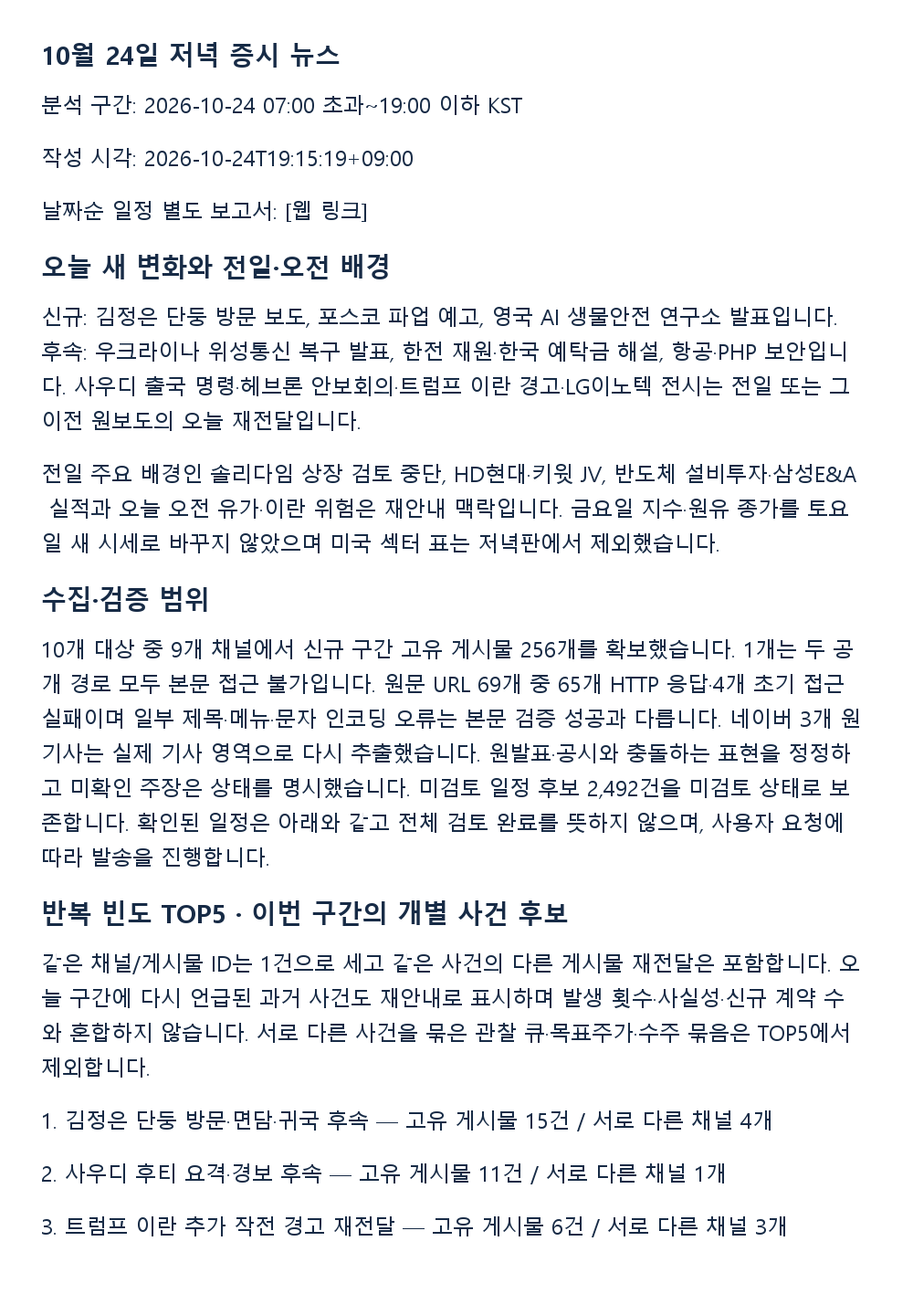
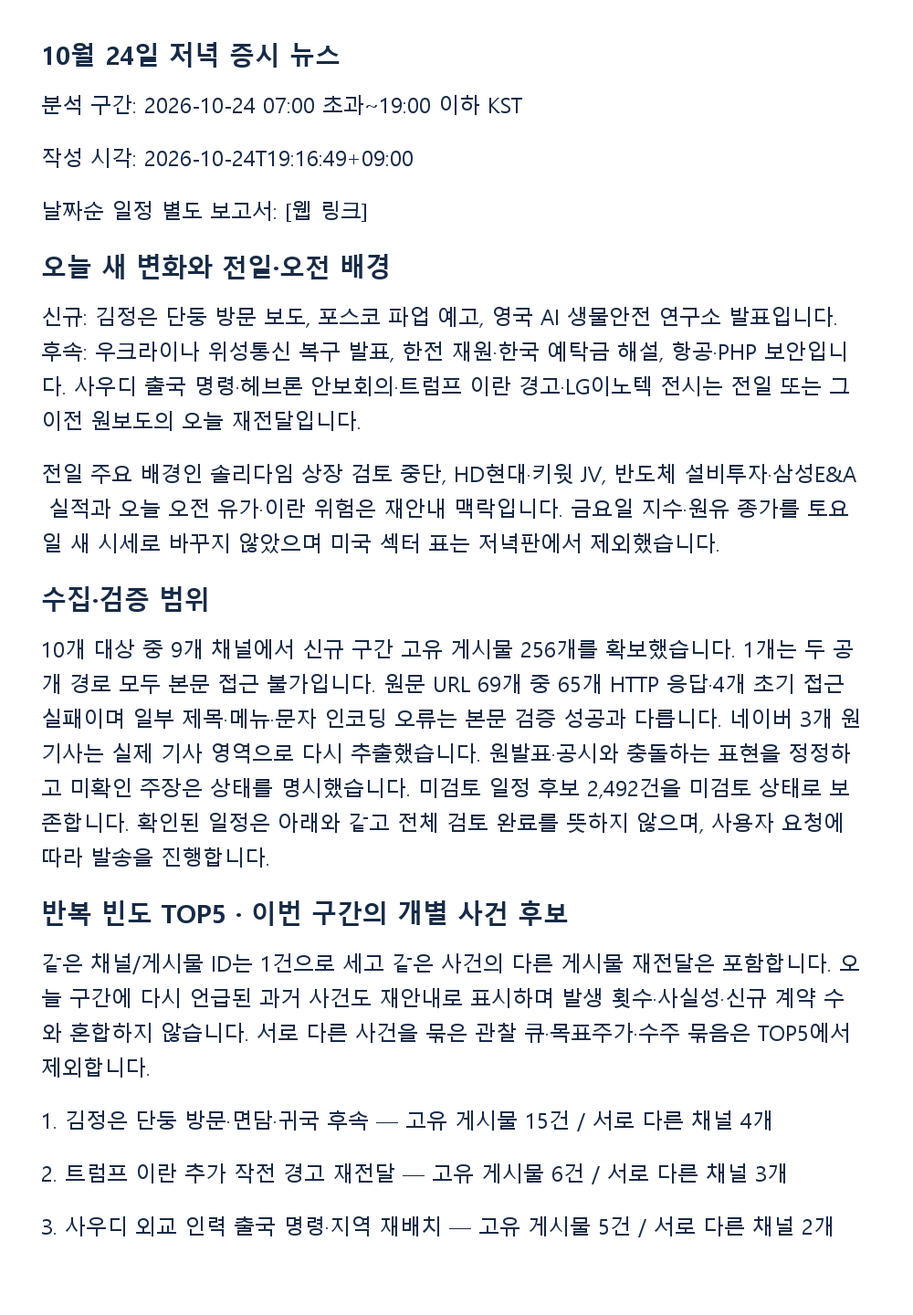
Finalize evening event frequencies and actual publication timestamp

Changed region(s): [[0.062, 0.875, 0.868, 0.9375], [0.341, 0.0938, 0.372, 0.125]]

diff --git a/news/2026-10-24-1900/index.html b/news/2026-10-24-1900/index.html
@@ -1,1 +1,1 @@
-<!doctype html><html lang="ko"><meta charset="utf-8"><meta name="viewport" content="width=device-width,initial-scale=1"><title>10월 24일 저녁 증시 뉴스</title><style>body{font:17px/1.8 sans-serif;background:#f2f5f9;color:#172b46;margin:0}main{max-width:920px;margin:auto;padding:24px;background:white}p,a,h1,h2,h3{overflow-wrap:anywhere}h1,h2,h3{line-height:1.4}h2{border-top:2px solid #ced9e7;padding-top:25px;margin-top:36px}a{color:#145ca5}img{max-width:100%;height:auto}nav{padding:18px;background:#eaf1fb}small{color:#61718a}</style><main><nav><a href="schedule.html">날짜순 일정</a> · <a href="../../#news">당일 체크 · 당일 뉴스</a></nav><article id="report"><h1>10월 24일 저녁 증시 뉴스</h1><p>분석 구간: 2026-10-24 07:00 초과~19:00 이하 KST</p><p>작성 시각: 2026-10-24T19:15:19+09:00</p><p>날짜순 일정 별도 보고서: <a href="https://jsinvest.github.io/dashboard/news/2026-10-24-1900/schedule.html">원문 열기</a></p><h2>오늘 새 변화와 전일·오전 배경</h2><p>신규: 김정은 단둥 방문 보도, 포스코 파업 예고, 영국 AI 생물안전 연구소 발표입니다. 후속: 우크라이나 위성통신 복구 발표, 한전 재원·한국 예탁금 해설, 항공·PHP 보안입니다. 사우디 출국 명령·헤브론 안보회의·트럼프 이란 경고·LG이노텍 전시는 전일 또는 그 이전 원보도의 오늘 재전달입니다.</p><p>전일 주요 배경인 솔리다임 상장 검토 중단, HD현대·키윗 JV, 반도체 설비투자·삼성E&amp;A 실적과 오늘 오전 유가·이란 위험은 재안내 맥락입니다. 금요일 지수·원유 종가를 토요일 새 시세로 바꾸지 않았으며 미국 섹터 표는 저녁판에서 제외했습니다.</p><h2>수집·검증 범위</h2><p>10개 대상 중 9개 채널에서 신규 구간 고유 게시물 256개를 확보했습니다. 1개는 두 공개 경로 모두 본문 접근 불가입니다. 원문 URL 69개 중 65개 HTTP 응답·4개 초기 접근 실패이며 일부 제목·메뉴·문자 인코딩 오류는 본문 검증 성공과 다릅니다. 네이버 3개 원기사는 실제 기사 영역으로 다시 추출했습니다. 원발표·공시와 충돌하는 표현을 정정하고 미확인 주장은 상태를 명시했습니다. 미검토 일정 후보 2,492건을 미검토 상태로 보존합니다. 확인된 일정은 아래와 같고 전체 검토 완료를 뜻하지 않으며, 사용자 요청에 따라 발송을 진행합니다.</p><h2>반복 빈도 TOP5 · 이번 구간의 개별 사건 후보</h2><p>같은 채널/게시물 ID는 1건으로 세고 같은 사건의 다른 게시물 재전달은 포함합니다. 오늘 구간에 다시 언급된 과거 사건도 재안내로 표시하며 발생 횟수·사실성·신규 계약 수와 혼합하지 않습니다. 서로 다른 사건을 묶은 관찰 큐·목표주가·수주 묶음은 TOP5에서 제외합니다.</p><p>1. 김정은 단둥 방문·면담·귀국 후속 — 고유 게시물 15건 / 서로 다른 채널 4개</p><p>2. 사우디 후티 요격·경보 후속 — 고유 게시물 11건 / 서로 다른 채널 1개</p><p>3. 트럼프 이란 추가 작전 경고 재전달 — 고유 게시물 6건 / 서로 다른 채널 3개</p><p>4. 사우디 외교 인력 출국 명령·지역 재배치 — 고유 게시물 5건 / 서로 다른 채널 2개</p><p>5. 우크라이나 스타링크 제한 해제 후속 — 고유 게시물 4건 / 서로 다른 채널 2개</p><h2>외교·지정학</h2><h3>김정은, 신압록강대교 거쳐 중국 단둥 도착…통일부 확인 인용 보도</h3><p>상태: 원기사 보도 확인 / 원기관 독립 대조 미완료</p><p>판정: 정부 확인을 인용한 원기사 보도. 24일 단둥 방문은 구간 내 새 변화입니다. 리창 면담 확인은 여당 정보위 간사 발언을 인용한 별도 속보이고, 당일 귀국은 전망 단계여서 귀국 완료로 쓰지 않았습니다. 건강이상·사망설을 사실로 채택하지 않습니다. 미국 증시 연결: 북중 외교 변화가 추가 제재·군사 행동으로 이어질 때 위험회피 경로가 생길 수 있지만 단순 방문만으로 확전·제재 해제를 단정할 수 없습니다. 공식 면담 의제·체류 일정·귀환 확인이 다음 조건입니다.</p><p>원문: <a href="https://n.news.naver.com/mnews/article/015/0005346071?sid=001">원문 열기</a> | <a href="https://n.news.naver.com/mnews/article/449/0000365139?rc=N&amp;ntype=RANKING&amp;sid=100">원문 열기</a> | <a href="https://www.yna.co.kr/view/AKR20261024045700001?input=1195m">원문 열기</a> | <a href="https://www.yna.co.kr/view/AKR20261024046000001?input=1195m">원문 열기</a></p><p>이번 구간 후보 언급 15건 / 서로 다른 채널 4개. 최초·최종 게시 관측(UTC): 2026-10-24T05:27:16+00:00 / 2026-10-24T09:05:04+00:00. 기사 최초·수정·사건 시각은 별개입니다.</p><h2>이란·전쟁 별도 점검</h2><h3>미국, 사우디 비필수 외교 인력·가족 출국 명령…다른 국가와 범위 구분</h3><p>상태: AP 보도 확인 / 공식 상세 본문 접근 실패</p><p>판정: 출국 명령 보도 확인 / 지역 확대 범위 미확인. AP의 21일 보도는 사우디에 대한 비필수 인력·가족 출국 명령과 다른 걸프 공관의 일시적 인력 변화를 구분합니다. 오늘 재전달을 오늘 새 전면 철수 명령으로 바꾸지 않습니다. CNN 인용 요약의 7개국 철수·23일 추가 명령은 각각 원문·국무부 확인이 남았습니다. 미국 증시 연결: 공관 축소와 실제 공격·항로 통제가 겹치면 원유·운임→물가·금리 기대→항공·성장주 부담 경로가 가능합니다. 협상 진전과 운항 정상화는 반대 조건이며 실제 시장 반응은 별도 미확인입니다.</p><p>원문: <a href="https://apnews.com/article/fa9a4806bff404a23a16a8c209afbd2b">원문 열기</a> | <a href="https://travel.state.gov/en/international-travel/travel-advisories/saudi-arabia.html">원문 열기</a></p><p>이번 구간 후보 언급 5건 / 서로 다른 채널 2개. 최초·최종 게시 관측(UTC): 2026-10-23T23:05:14+00:00 / 2026-10-24T05:58:19+00:00. 기사 최초·수정·사건 시각은 별개입니다.</p><h3>네타냐후, 헤브론 공격 뒤 안보평가 회의·현장 방문…전일 사건 재전달</h3><p>상태: 통신사 원보도 확인 / 정부 발표 직접 대조 미완료</p><p>판정: 안보회의 개최를 인용한 원보도 확인. 23일 회의 뒤 헤브론 봉쇄와 서안 전역 봉쇄 준비를 지시했다는 보도입니다. 오늘 새 이란 공격 결정이나 해외 순방 긴급 귀국으로 확대하지 않습니다. 변경 전→후: 해외 방문 축소 사례가 아니라 공격 뒤 국내 현장 방문·안보 대응입니다. 회의 소집과 공격 계획 추정은 별개이며 가자·서안 조치가 중동 전역 확전으로 이어지는지 추가 확인이 필요합니다. 미국 증시 연결은 확전→공급 차질→유가·위험프리미엄의 조건부 경로이며 방산 관심과 실제 발주는 다릅니다.</p><p>원문: <a href="https://www.aa.com.tr/en/middle-east/israeli-premier-orders-closure-of-hebron-full-lockdown-of-occupied-west-bank/4098296">원문 열기</a></p><p>이번 구간 후보 언급 2건 / 서로 다른 채널 1개. 최초·최종 게시 관측(UTC): 2026-10-23T22:57:41+00:00 / 2026-10-23T22:58:54+00:00. 기사 최초·수정·사건 시각은 별개입니다.</p><h3>트럼프 추가 이란 작전 경고·배럭 주튀르키예 대사 주말 공격 가능성 발언 후보</h3><p>상태: 보도·당사자 주장과 미확인 계획 구분</p><p>판정: 트럼프 경고 원보도 / 대사 발언 원문 미확인. 트럼프의 23일 유세 발언은 오전판 후속 재전달입니다. 쿠바 군함 파견 시사와 이란 실제 공격 개시는 다릅니다. 배럭 인터뷰가 주말 가능성을 말했다는 요약은 공격 시각·승인 확정 근거가 아닙니다. 외교관 표적 공격 정보 메모는 매체·정보당국 평가 후보로 실제 테러 발생과 구분합니다. 지도자 방문 축소·회담 취소·긴급 귀국도 별도 검색했으며 과거 9월 뉴욕 일정 축소를 이번 새 사건으로 재사용하지 않았습니다. 유가 상승과 안전자산 수요는 금리에 반대로 작용할 수 있어 일방 상승을 가정하지 않습니다.</p><p>원문: <a href="https://www.segye.com/newsView/20261024502698?OutUrl=naver">원문 열기</a></p><p>이번 구간 후보 언급 16건 / 서로 다른 채널 3개. 최초·최종 게시 관측(UTC): 2026-10-23T22:29:58+00:00 / 2026-10-24T07:10:36+00:00. 기사 최초·수정·사건 시각은 별개입니다.</p><h3>우크라이나, 스타링크·스타실드 속도 제한 해제 발표 보도…오전판 이후 후속</h3><p>상태: 당국 인용 보도 확인 / 독립 통신 실측 없음</p><p>판정: 우크라이나 당국 발표를 인용한 원기사 확인. 24일 보도는 제한 해제와 고속 이동 중 연결 회복을 전합니다. 23일 제한 지속 발언과 날짜가 다른 후속이며 앞선 혼선이 처음부터 없었던 것으로 소급하지 않습니다. 기술 실측·전선 전 구간의 안정성을 직접 검증하지 못했습니다. 군용 스타실드와 민간 스타링크 용어를 구분하고 위성통신 수요가 국내 관련주 매출로 연결되는지는 별도 계약 확인이 필요합니다.</p><p>원문: <a href="https://www.irishtimes.com/world/europe/2026/10/24/ukraine-says-restrictions-on-starlink-speed-now-lifted/">원문 열기</a></p><p>이번 구간 후보 언급 4건 / 서로 다른 채널 2개. 최초·최종 게시 관측(UTC): 2026-10-24T07:49:23+00:00 / 2026-10-24T08:20:17+00:00. 기사 최초·수정·사건 시각은 별개입니다.</p><h3>호르무즈 유조선 피격·사우디 미사일 요격·러시아 에너지시설 공격 주장</h3><p>상태: 당사자·속보 주장 미검증</p><p>판정: 미확인 또는 당사자 주장. UKMTO 인용 요약은 22일 17:15 UTC 오만 리마 북동쪽 7해리 유조선 1척 사건인 반면, 이란 측 유조선 2척 기뢰 충돌·대피 주장은 별개이며 같은 사건으로 합치지 않았습니다. 사우디 요격·경보 해제와 우크라이나 톨리아티·오룔 시설 타격도 원발표 확인이 남았습니다. 공격 수·피해 시설·생산 중단량을 임의로 확정하지 않습니다. 미국 증시 연결: 실제 운송·에너지 차질 확인 시 정유·에너지와 항공·화학의 비용 경로가 갈리고 우려 완화 시 반전될 수 있습니다.</p><p>이번 구간 후보 언급 20건 / 서로 다른 채널 2개. 최초·최종 게시 관측(UTC): 2026-10-23T22:29:58+00:00 / 2026-10-24T08:57:05+00:00. 기사 최초·수정·사건 시각은 별개입니다.</p><h2>기업·산업</h2><h3>포스코 노조, 11월 2일 19시 무기한·단계적 파업 예고 보도</h3><p>상태: 원기사 보도 확인 / 원기관 독립 대조 미완료</p><p>신규 보도는 23일 포항 막판 교섭 결렬 뒤 11월 2일 오후 7시 파업 예정이라는 내용입니다. 노조·회사 공식 발표를 직접 확보하지 못했으므로 파업 개시나 제철소 전체 가동 중단이 이미 발생했다고 쓰지 않습니다. 실제 참여 범위·안전 유지 인력·재교섭 결과가 철강 공급과 실적 영향의 확인 조건입니다. 공급 차질과 수요 위축이 상충할 수 있어 철강 가격 상승을 단정하지 않습니다.</p><p>원문: <a href="https://economist.co.kr/article/view/ecn202610240009">원문 열기</a></p><p>이번 구간 후보 언급 1건 / 서로 다른 채널 1개. 최초·최종 게시 관측(UTC): 2026-10-24T03:07:55+00:00 / 2026-10-24T03:07:55+00:00. 기사 최초·수정·사건 시각은 별개입니다.</p><h3>한국전력 사채 한도 초과 우려 19.2조원·전기료 25조원 선납 거절 보도</h3><p>상태: 원기사 보도 확인 / 원기관 독립 대조 미완료</p><p>국회예산정책처 분석을 인용한 기사는 2027년 말 특례 종료 뒤 2028년 발행 한도가 자본금·적립금의 2배로 돌아가며 전망 잔액과 약 19.2조원 차이가 날 수 있다고 설명합니다. 당장 오늘 19조원 채무불이행이 발생했다는 뜻이 아닙니다. 반도체 기업의 향후 5년 요금 선납 요청 거절 보도와 요금 인상 논의도 확정 인상 고시와 다릅니다. 전력망 투자 재원·연료비·법 개정 여부가 확인 조건이며 전력기기 수요 기대와 발주 지연 위험을 함께 봅니다.</p><p>원문: <a href="https://www.kyeonggi.com/article/20261024580051">원문 열기</a> | <a href="https://www.imaeil.com/page/view/2026102409413885877">원문 열기</a></p><p>이번 구간 후보 언급 4건 / 서로 다른 채널 1개. 최초·최종 게시 관측(UTC): 2026-10-24T00:59:29+00:00 / 2026-10-24T04:50:21+00:00. 기사 최초·수정·사건 시각은 별개입니다.</p><h2>국내 수급·정책</h2><h3>투자자예탁금 약 4개월간 51조원 감소 보도…총액을 순유출로 해석하지 않음</h3><p>상태: 원기사 보도 확인 / 원기관 독립 대조 미완료</p><p>신규 시장 수급 해설입니다. 예탁금은 주식 매수 결제·출금·신규 입금 등으로 바뀌므로 감소액 전체를 증시 밖 자금 이탈로 환산하지 않았습니다. 신용융자와 반대매매 부담 기사도 기준일·분모가 달라 하나의 수치로 합치지 않습니다. 금융투자협회 원시계열을 이번에 재조회하지 않아 누적 방향과 정확한 유출 경로는 기사 인용 범위입니다. 주말 보도이며 토요일 정규장 가격 반응을 만들지 않습니다.</p><p>원문: <a href="https://n.news.naver.com/article/011/0004674693">원문 열기</a> | <a href="https://n.news.naver.com/article/008/0005431014">원문 열기</a></p><p>이번 구간 후보 언급 2건 / 서로 다른 채널 1개. 최초·최종 게시 관측(UTC): 2026-10-23T22:55:40+00:00 / 2026-10-24T00:30:13+00:00. 기사 최초·수정·사건 시각은 별개입니다.</p><h3>금감원 해외주식 현금성 마케팅 금지 개선안, 의견 수렴 단계 보도</h3><p>상태: 원기사 보도 확인 / 원기관 독립 대조 미완료</p><p>23일 원기사의 오늘 재전달입니다. 규정 개정안 준비·업계 의견 수렴과 이미 시행된 법적 전면 금지를 구분했습니다. 자체 수수료·이자 감면 등은 기사에서 별도 취급합니다. 증권사 거래 유도 비용과 고객 유입에 영향을 줄 수 있으나 개정 문구·시행일 확정 전 실적 감소를 수치로 계산하지 않습니다.</p><p>원문: <a href="https://news.einfomax.co.kr/news/articleView.html?idxno=4440870">원문 열기</a></p><p>이번 구간 후보 언급 1건 / 서로 다른 채널 1개. 최초·최종 게시 관측(UTC): 2026-10-24T02:45:40+00:00 / 2026-10-24T02:45:40+00:00. 기사 최초·수정·사건 시각은 별개입니다.</p><h2>정책·AI</h2><h3>영국 AI 생물안전 연구소, 정부 1억파운드·기업 최대 2억파운드 지원</h3><p>상태: 영국 정부 공식 원문 확인</p><p>영국 정부 24일 발표를 확인했습니다. 정부 예산과 OpenAI·Anthropic의 최대 모델 크레디트 약속은 현금 집행액 하나로 더하지 않습니다. 더 넓은 정부 AI·안보 패키지와 연구소 예산도 중복 합산하지 않습니다. AI 위험 탐지·백신/대응 연구 기반의 계획으로 국내 바이오·보안 기업의 수주가 아닙니다. 실제 조달·프로젝트 참여·집행 일정이 영향 확인 조건입니다.</p><p>원문: <a href="https://www.gov.uk/government/news/introducing-the-ai-biosecurity-lab">원문 열기</a> | <a href="https://www.gov.uk/government/news/chancellor-unveils-britains-ambitious-plan-for-ai">원문 열기</a></p><p>이번 구간 후보 언급 2건 / 서로 다른 채널 2개. 최초·최종 게시 관측(UTC): 2026-10-24T02:04:37+00:00 / 2026-10-24T05:38:17+00:00. 기사 최초·수정·사건 시각은 별개입니다.</p><h3>중국 AI 고용 지침, 실업 완충기간은 장려 표현…일률 강제와 구분</h3><p>상태: 중국 정부·부처 원문 확인</p><p>국무원 원문은 노동집약 업종의 도입 범위·강도·속도를 신중히 조절하고 기업의 실업 완충기간 탐색을 장려한다고 명시합니다. 국내 기사 중 일률적 강제·의무화로 확대된 표현은 원문과 달라 채택하지 않았습니다. 성문일 10월 16일, 정부 영문 소개 23일, 부처 재게시 24일을 구분했습니다. AI 도입 전면 중단이 아니라 고용 보호·재교육 조정이며 실제 기업별 비용과 생산성 영향은 후속 시행을 봐야 합니다.</p><p>원문: <a href="https://www.dt.co.kr/article/12090947?ref=naver">원문 열기</a> | <a href="https://english.www.gov.cn/policies/latestreleases/202610/23/content_WS6adb4e53c6d00ca5f9a0deb7.html">원문 열기</a> | <a href="https://www.mee.gov.cn/zcwj/gwywj/202610/t20261024_1184583.shtml">원문 열기</a></p><p>이번 구간 후보 언급 1건 / 서로 다른 채널 1개. 최초·최종 게시 관측(UTC): 2026-10-24T05:03:50+00:00 / 2026-10-24T05:03:50+00:00. 기사 최초·수정·사건 시각은 별개입니다.</p><h2>기업·산업</h2><h3>LG이노텍, 베를린서 엔비디아 HSB 센싱 공개…22일 발표 재안내</h3><p>상태: LG이노텍 공식 발표와 원기사 확인</p><p>회사 발표는 20일 GTC 베를린에서 300만화소 카메라 모듈·MVS 등 센싱 솔루션 공개를 설명합니다. 오늘 기사에 재전달된 기술 협력으로 신규 수주 금액은 아닙니다. CPU를 거치지 않는 GPU 센서 연결 등 기술 설명과 대량 양산 매출은 구분합니다. 2027년 CES·GTC 전시는 계획 범위이며 정확한 기업 발표 시각은 아직 별도 확인 사항입니다. 고객 채택·실제 공급 계약과 경쟁 제품이 수익 영향의 조건입니다.</p><p>원문: <a href="https://n.news.naver.com/mnews/article/648/0000051904?rc=N&amp;ntype=RANKING&amp;sid=101">원문 열기</a> | <a href="https://www.lginnotek.com/news/pressView.do?idx=6605&amp;locale=en&amp;rowSize=15">원문 열기</a></p><p>이번 구간 후보 언급 1건 / 서로 다른 채널 1개. 최초·최종 게시 관측(UTC): 2026-10-24T06:14:34+00:00 / 2026-10-24T06:14:34+00:00. 기사 최초·수정·사건 시각은 별개입니다.</p><h2>AI·데이터센터</h2><h3>TikTok 미국 법인, 2030년대 초 4GW 컴퓨팅 확보 추진 보도 후속</h3><p>상태: 원기사 보도 확인 / 원기관 독립 대조 미완료</p><p>CNBC 원문은 익명 소식통의 4GW 목표와 회사의 Oracle이 주된 클라우드 제공자라는 설명을 구분합니다. 다년간의 탐색·협의이며 확정 임대·구매 계약이나 오늘 추가 지출액이 아닙니다. BofA 2028년 2.1조달러 데이터센터 지출 전망·연료전지 수요 기사는 원문 접근 실패로 추정 후보에 남겼습니다. 전력망·냉각·연료전지 기회는 계약·가동·자금조달 확인이 필요하며 대규모 투자 회수 부담도 반대 경로입니다.</p><p>원문: <a href="https://www.cnbc.com/2026/10/23/tiktok-us-compute-capacity.html?utm_source=chatgpt.com">원문 열기</a></p><p>이번 구간 후보 언급 2건 / 서로 다른 채널 1개. 최초·최종 게시 관측(UTC): 2026-10-23T23:49:30+00:00 / 2026-10-23T23:58:35+00:00. 기사 최초·수정·사건 시각은 별개입니다.</p><h3>중국 AI 연산 2027년 약 두 배 전망, 미국 설계·해외 클라우드 의존 가설</h3><p>상태: 원기사 보도 확인 / 원기관 독립 대조 미완료</p><p>대만 원기사는 IFP 보고서의 H100 환산 460만→880만 추정을 인용했습니다. 실제 GPU 출하 확정량·중국 국산칩만의 성과가 아닙니다. 출처 모델에 합법 수입·비공식 조달·해외 클라우드가 함께 포함돼 가정 변화에 민감합니다. 원 IFP 보고서 직접 대조가 남아 전망으로만 표시합니다. GPU 임대료 지수 이미지·AI CDS 최고치 요약도 원계열 미확보라 수치를 확정하지 않습니다.</p><p>원문: <a href="https://www.ctee.com.tw/news/20261024700325-430804">원문 열기</a></p><p>이번 구간 후보 언급 2건 / 서로 다른 채널 2개. 최초·최종 게시 관측(UTC): 2026-10-24T05:15:50+00:00 / 2026-10-24T05:37:26+00:00. 기사 최초·수정·사건 시각은 별개입니다.</p><h2>보안·위험</h2><h3>PHP 취약점 악용 준비 정황·Brotli RCE 보고 후보, 실제 침해와 구분</h3><p>상태: 원기사 보도 확인 / 원기관 독립 대조 미완료</p><p>문화일보는 싱가포르 보안기업의 라자루스 준비 정황 주장을 전했습니다. 악성 공격 준비·취약점·이미 발생한 침해는 단계가 다릅니다. PHP 원 보안 공지와 OpenAI의 Brotli 취약점 원발표 전체를 이번에 대조하지 못해 CVE·피해 수를 임의로 만들지 않았습니다. 항공 IT업체 유출 후속도 노출 항목·고객 규모 확인이 남았습니다. 패치·침입 탐지·규제 대응 수요가 보안 업체 매출로 이어지는지는 실제 계약 확인이 필요합니다.</p><p>원문: <a href="https://www.munhwa.com/article/11625906?ref=naver">원문 열기</a> | <a href="https://www.ngonews.kr/news/articleView.html?idxno=241351">원문 열기</a></p><p>이번 구간 후보 언급 6건 / 서로 다른 채널 3개. 최초·최종 게시 관측(UTC): 2026-10-23T22:37:28+00:00 / 2026-10-24T09:45:53+00:00. 기사 최초·수정·사건 시각은 별개입니다.</p><h2>기업·산업</h2><h3>밀양 4개 기업 1,385억원 투자협약·중앙일보 인수 우협 후속</h3><p>상태: 원기사 보도 확인 / 원기관 독립 대조 미완료</p><p>밀양 기사상 투자협약 합계는 600+650+100+35억원이며 확정 납품 수주가 아닙니다. 허가·투자 집행·고용 달성을 별도 확인해야 합니다. 중앙일보 매각은 다우키움·CJ 컨소시엄과 신세계 참여 보도로, 약 5,000억원 거론액은 확정 인수가가 아닙니다. 감자·유증 구조, 주총·사채권자 동의 등 조건이 남습니다. 상장 관련사의 출자 규모·연결 효과가 확인되기 전 실적에 임의 반영하지 않습니다.</p><p>원문: <a href="https://www.pointe.co.kr/news/articleView.html?idxno=86563">원문 열기</a> | <a href="https://n.news.naver.com/article/018/0006395202">원문 열기</a></p><p>이번 구간 후보 언급 2건 / 서로 다른 채널 1개. 최초·최종 게시 관측(UTC): 2026-10-24T00:40:44+00:00 / 2026-10-24T01:33:02+00:00. 기사 최초·수정·사건 시각은 별개입니다.</p><h2>공시·기업 행동</h2><h3>한솔아이원스 유증에 한솔테크닉스 참여·엘앤씨바이오 26일 권리락</h3><p>상태: DART 본문 확인</p><p>23일 DART 원공시는 한솔테크닉스의 예정 출자금 242.73억원·유증 전체 600억원·주당 예정가 9,120원을 기재하며 배정·확정가에 따라 바뀔 수 있습니다. 2027년 1월 29일 납입은 계획일로 완료가 아닙니다. 엘앤씨바이오 무상증자 권리락은 10월 26일, 기준가 30,150원으로 원문 확인했습니다. 권리락 기준가격과 현재 시장가격을 혼합하지 않고 자본조달·희석·수급 효과를 구분합니다.</p><p>원문: <a href="https://dart.fss.or.kr/dsaf001/main.do?rcpNo=20261023000176">원문 열기</a> | <a href="https://dart.fss.or.kr/dsaf001/main.do?rcpNo=20261023900853">원문 열기</a></p><p>이번 구간 후보 언급 1건 / 서로 다른 채널 1개. 최초·최종 게시 관측(UTC): 2026-10-24T02:40:34+00:00 / 2026-10-24T02:40:34+00:00. 기사 최초·수정·사건 시각은 별개입니다.</p><h2>바이오·임상</h2><h3>GSK Mo-Rez 난소암 1b상 PFS 11.1개월·ORR 62% 발표</h3><p>상태: 회사 공식 원문 확인</p><p>회사 원문은 BEHOLD-1 초기 임상에서 확인 ORR 62%, 반응 지속기간 12.2개월, PFS 11.1개월을 제시합니다. 3상 확증이나 신약 허가가 아닙니다. 지표별 기간과 환자군이 달라 다른 ADC 임상과 단순 우열 비교하지 않습니다. 국내 바이오 기업 노출·권리 관계는 별도 확인되지 않았습니다. 추가 확증·안전성·허가와 판권을 확인해야 합니다.</p><p>원문: <a href="https://www.gsk.com/en-gb/media/press-releases/gsk-presents-positive-data-for-mo-rez-in-platinum-resistant-ovarian-cancer/">원문 열기</a></p><p>이번 구간 후보 언급 2건 / 서로 다른 채널 1개. 최초·최종 게시 관측(UTC): 2026-10-24T00:25:36+00:00 / 2026-10-24T00:25:45+00:00. 기사 최초·수정·사건 시각은 별개입니다.</p><h2>목표주가 변경</h2><h3>목표주가 변경 한 묶음: ASTS 의견 상향 후보·국내 실적 전망 구분</h3><p>상태: 원보고서 미검증 후보와 기사 전망 구분</p><p>AST스페이스모바일은 스코샤뱅크 Sector Perform→Sector Outperform, 목표 55.70달러라는 요약 후보입니다. 브로커 원보고서·이전 목표가를 확보하지 못해 상향액이나 확정 변경으로 계산하지 않았습니다. 씨에스윈드 하나증권·파라다이스 실적 전망 기사에는 확정 발표와 추정의 구분을 유지하며 확인 없는 새 목표주가를 만들지 않습니다. 오전의 삼성E&amp;A 목표가 변경은 이미 전달한 배경입니다. 개별 종목 카톡 대신 이 섹션에 묶습니다.</p><p>원문: <a href="https://www.pinpointnews.co.kr/news/articleView.html?idxno=498114">원문 열기</a> | <a href="https://www.pinpointnews.co.kr/news/articleView.html?idxno=498133">원문 열기</a></p><p>이번 구간 후보 언급 3건 / 서로 다른 채널 2개. 최초·최종 게시 관측(UTC): 2026-10-23T22:38:13+00:00 / 2026-10-24T07:27:52+00:00. 기사 최초·수정·사건 시각은 별개입니다.</p><h2>수주공시·계약 검토</h2><h3>수주공시 재안내·언론 인용 계약: 삼성전기 3,605억원·LS일렉 1,689억원</h3><p>상태: 원기사 확인 / 원공시 추가 대조 필요</p><p>오늘 기사에 포함된 19일 계약 보도입니다. 삼성전기 패키지기판 3,605억원은 2027년 납품, LS일렉 1,689억원은 2027년 확정 물량이고 2028년은 추가 협의라고 기사에 적혔습니다. 계약 원공시·매출 대비 비중·정확한 공시 시각을 이번에 대조하지 못해 확인된 새 수주공시로 승격하지 않습니다. 23일 기가비스·코오롱글로벌 공급계약 목록은 이전판에 실린 계약과 중복 가능해 신규 합산하지 않고 원공시 감사 큐를 유지합니다. 주가 반영 여부는 판단 불가입니다.</p><p>원문: <a href="https://n.news.naver.com/mnews/article/648/0000051904?rc=N&amp;ntype=RANKING&amp;sid=101">원문 열기</a></p><p>이번 구간 후보 언급 1건 / 서로 다른 채널 1개. 최초·최종 게시 관측(UTC): 2026-10-24T02:40:34+00:00 / 2026-10-24T02:40:34+00:00. 기사 최초·수정·사건 시각은 별개입니다.</p><h2>미확인·추가 검토</h2><h3>추가 기업·정책 확인 큐: 원전 장기 전망·미국 기업 계약과 임상</h3><p>상태: 계획·언론 인용·후보를 보존 / 확정 효과로 사용 금지</p><p>IAEA 원전 수요 전망은 확정 발주가 아닙니다. 템퍼스·BMS 2031년 데이터 라이선스, IREN·엔비디아 플랫폼, 메타 Sundial 인수, SpaceX 기지국 8만개 협의·Instacart 매각 검토는 원계약 대조가 남았습니다. AbbVie 승인, IONS·로슈·젠맙 임상, 리콜 및 AXP·BAH 콜 요약도 각 원발표를 추가 확인해야 합니다. 요르단 공격·에볼라·태풍·허리케인은 피해·공식 경보 원천을 우선하며 속보끼리 피해 수를 합치지 않았습니다. 현대차 한정판 200대·새만금 지원 논의, 이마트 유통 확대·에코프로 전략은 기업 전체 확정 실적과 다릅니다.</p><p>원문: <a href="https://n.news.naver.com/article/215/0001270315">원문 열기</a> | <a href="https://magazine.hankyung.com/business/article/202610242420b">원문 열기</a> | <a href="https://www.theguru.co.kr/news/article.html?no=108736">원문 열기</a> | http://www.domin.co.kr/news/articleView.html?idxno=1572959 | <a href="https://www.meconomynews.com/news/articleView.html?idxno=202883">원문 열기</a> | http://www.breaknews.com/1245435 | <a href="https://www.yonhapnewstv.co.kr:443/news/MYH20261024162114ruc">원문 열기</a> | <a href="https://www.ytn.co.kr/_ln/0108_202610241622098228">원문 열기</a></p><p>이번 구간 후보 언급 26건 / 서로 다른 채널 3개. 최초·최종 게시 관측(UTC): 2026-10-23T22:37:28+00:00 / 2026-10-24T08:45:58+00:00. 기사 최초·수정·사건 시각은 별개입니다.</p><h2>일정 정정과 다음 확인</h2><p>다음 주 일정에서 CPI/PCE와 영란은행 날짜를 바로잡았습니다. 날짜순 일정은 별도 링크로 제공하며 IR·재공시는 거시 일정과 분리했습니다. 뉴스 빈도가 낮아도 파업·권리락·주금 납입·정책 발효는 별도 일정에 기록했습니다.</p><h2>검증 한계</h2><p>발행·수정·사건·게시·수집 시각은 원자료에 보존하고 시간대 미확인을 임의 환산하지 않았습니다. 원기사를 읽었다는 사실과 그 주장 전체의 독립 검증은 다릅니다. 직접 접근 실패·빈 본문·상반된 주장·미검토 후보는 장부에 남깁니다. 금융 영향은 조건부 경로이며 매매 신호나 확정 예측이 아닙니다. 기존 미발송 11개 판은 별도 미해결이고 분석 완료 cutoff를 임의로 올리지 않습니다.</p></article><h2>전체 본문 PNG</h2><img src="news_01.png" alt="뉴스 본문 1" loading="lazy"><img src="news_02.png" alt="뉴스 본문 2" loading="lazy"><img src="news_03.png" alt="뉴스 본문 3" loading="lazy"><img src="news_04.png" alt="뉴스 본문 4" loading="lazy"><img src="news_05.png" alt="뉴스 본문 5" loading="lazy"><img src="news_06.png" alt="뉴스 본문 6" loading="lazy"><img src="news_07.png" alt="뉴스 본문 7" loading="lazy"><img src="news_08.png" alt="뉴스 본문 8" loading="lazy"><img src="news_09.png" alt="뉴스 본문 9" loading="lazy"><img src="news_10.png" alt="뉴스 본문 10" loading="lazy"><img src="news_11.png" alt="뉴스 본문 11" loading="lazy"></main></html>
+<!doctype html><html lang="ko"><meta charset="utf-8"><meta name="viewport" content="width=device-width,initial-scale=1"><title>10월 24일 저녁 증시 뉴스</title><style>body{font:17px/1.8 sans-serif;background:#f2f5f9;color:#172b46;margin:0}main{max-width:920px;margin:auto;padding:24px;background:white}p,a,h1,h2,h3{overflow-wrap:anywhere}h1,h2,h3{line-height:1.4}h2{border-top:2px solid #ced9e7;padding-top:25px;margin-top:36px}a{color:#145ca5}img{max-width:100%;height:auto}nav{padding:18px;background:#eaf1fb}small{color:#61718a}</style><main><nav><a href="schedule.html">날짜순 일정</a> · <a href="../../#news">당일 체크 · 당일 뉴스</a></nav><article id="report"><h1>10월 24일 저녁 증시 뉴스</h1><p>분석 구간: 2026-10-24 07:00 초과~19:00 이하 KST</p><p>작성 시각: 2026-10-24T19:16:49+09:00</p><p>날짜순 일정 별도 보고서: <a href="https://jsinvest.github.io/dashboard/news/2026-10-24-1900/schedule.html">원문 열기</a></p><h2>오늘 새 변화와 전일·오전 배경</h2><p>신규: 김정은 단둥 방문 보도, 포스코 파업 예고, 영국 AI 생물안전 연구소 발표입니다. 후속: 우크라이나 위성통신 복구 발표, 한전 재원·한국 예탁금 해설, 항공·PHP 보안입니다. 사우디 출국 명령·헤브론 안보회의·트럼프 이란 경고·LG이노텍 전시는 전일 또는 그 이전 원보도의 오늘 재전달입니다.</p><p>전일 주요 배경인 솔리다임 상장 검토 중단, HD현대·키윗 JV, 반도체 설비투자·삼성E&amp;A 실적과 오늘 오전 유가·이란 위험은 재안내 맥락입니다. 금요일 지수·원유 종가를 토요일 새 시세로 바꾸지 않았으며 미국 섹터 표는 저녁판에서 제외했습니다.</p><h2>수집·검증 범위</h2><p>10개 대상 중 9개 채널에서 신규 구간 고유 게시물 256개를 확보했습니다. 1개는 두 공개 경로 모두 본문 접근 불가입니다. 원문 URL 69개 중 65개 HTTP 응답·4개 초기 접근 실패이며 일부 제목·메뉴·문자 인코딩 오류는 본문 검증 성공과 다릅니다. 네이버 3개 원기사는 실제 기사 영역으로 다시 추출했습니다. 원발표·공시와 충돌하는 표현을 정정하고 미확인 주장은 상태를 명시했습니다. 미검토 일정 후보 2,492건을 미검토 상태로 보존합니다. 확인된 일정은 아래와 같고 전체 검토 완료를 뜻하지 않으며, 사용자 요청에 따라 발송을 진행합니다.</p><h2>반복 빈도 TOP5 · 이번 구간의 개별 사건 후보</h2><p>같은 채널/게시물 ID는 1건으로 세고 같은 사건의 다른 게시물 재전달은 포함합니다. 오늘 구간에 다시 언급된 과거 사건도 재안내로 표시하며 발생 횟수·사실성·신규 계약 수와 혼합하지 않습니다. 서로 다른 사건을 묶은 관찰 큐·목표주가·수주 묶음은 TOP5에서 제외합니다.</p><p>1. 김정은 단둥 방문·면담·귀국 후속 — 고유 게시물 15건 / 서로 다른 채널 4개</p><p>2. 트럼프 이란 추가 작전 경고 재전달 — 고유 게시물 6건 / 서로 다른 채널 3개</p><p>3. 사우디 외교 인력 출국 명령·지역 재배치 — 고유 게시물 5건 / 서로 다른 채널 2개</p><p>4. 사우디 리야드 경보·해제 후속 — 고유 게시물 5건 / 서로 다른 채널 1개</p><p>5. 우크라이나 스타링크 제한 해제 후속 — 고유 게시물 4건 / 서로 다른 채널 2개</p><h2>외교·지정학</h2><h3>김정은, 신압록강대교 거쳐 중국 단둥 도착…통일부 확인 인용 보도</h3><p>상태: 원기사 보도 확인 / 원기관 독립 대조 미완료</p><p>판정: 정부 확인을 인용한 원기사 보도. 24일 단둥 방문은 구간 내 새 변화입니다. 리창 면담 확인은 여당 정보위 간사 발언을 인용한 별도 속보이고, 당일 귀국은 전망 단계여서 귀국 완료로 쓰지 않았습니다. 건강이상·사망설을 사실로 채택하지 않습니다. 미국 증시 연결: 북중 외교 변화가 추가 제재·군사 행동으로 이어질 때 위험회피 경로가 생길 수 있지만 단순 방문만으로 확전·제재 해제를 단정할 수 없습니다. 공식 면담 의제·체류 일정·귀환 확인이 다음 조건입니다.</p><p>원문: <a href="https://n.news.naver.com/mnews/article/015/0005346071?sid=001">원문 열기</a> | <a href="https://n.news.naver.com/mnews/article/449/0000365139?rc=N&amp;ntype=RANKING&amp;sid=100">원문 열기</a> | <a href="https://www.yna.co.kr/view/AKR20261024045700001?input=1195m">원문 열기</a> | <a href="https://www.yna.co.kr/view/AKR20261024046000001?input=1195m">원문 열기</a></p><p>이번 구간 후보 언급 15건 / 서로 다른 채널 4개. 최초·최종 게시 관측(UTC): 2026-10-24T05:27:16+00:00 / 2026-10-24T09:05:04+00:00. 기사 최초·수정·사건 시각은 별개입니다.</p><h2>이란·전쟁 별도 점검</h2><h3>미국, 사우디 비필수 외교 인력·가족 출국 명령…다른 국가와 범위 구분</h3><p>상태: AP 보도 확인 / 공식 상세 본문 접근 실패</p><p>판정: 출국 명령 보도 확인 / 지역 확대 범위 미확인. AP의 21일 보도는 사우디에 대한 비필수 인력·가족 출국 명령과 다른 걸프 공관의 일시적 인력 변화를 구분합니다. 오늘 재전달을 오늘 새 전면 철수 명령으로 바꾸지 않습니다. CNN 인용 요약의 7개국 철수·23일 추가 명령은 각각 원문·국무부 확인이 남았습니다. 미국 증시 연결: 공관 축소와 실제 공격·항로 통제가 겹치면 원유·운임→물가·금리 기대→항공·성장주 부담 경로가 가능합니다. 협상 진전과 운항 정상화는 반대 조건이며 실제 시장 반응은 별도 미확인입니다.</p><p>원문: <a href="https://apnews.com/article/fa9a4806bff404a23a16a8c209afbd2b">원문 열기</a> | <a href="https://travel.state.gov/en/international-travel/travel-advisories/saudi-arabia.html">원문 열기</a></p><p>이번 구간 후보 언급 5건 / 서로 다른 채널 2개. 최초·최종 게시 관측(UTC): 2026-10-23T23:05:14+00:00 / 2026-10-24T05:58:19+00:00. 기사 최초·수정·사건 시각은 별개입니다.</p><h3>네타냐후, 헤브론 공격 뒤 안보평가 회의·현장 방문…전일 사건 재전달</h3><p>상태: 통신사 원보도 확인 / 정부 발표 직접 대조 미완료</p><p>판정: 안보회의 개최를 인용한 원보도 확인. 23일 회의 뒤 헤브론 봉쇄와 서안 전역 봉쇄 준비를 지시했다는 보도입니다. 오늘 새 이란 공격 결정이나 해외 순방 긴급 귀국으로 확대하지 않습니다. 변경 전→후: 해외 방문 축소 사례가 아니라 공격 뒤 국내 현장 방문·안보 대응입니다. 회의 소집과 공격 계획 추정은 별개이며 가자·서안 조치가 중동 전역 확전으로 이어지는지 추가 확인이 필요합니다. 미국 증시 연결은 확전→공급 차질→유가·위험프리미엄의 조건부 경로이며 방산 관심과 실제 발주는 다릅니다.</p><p>원문: <a href="https://www.aa.com.tr/en/middle-east/israeli-premier-orders-closure-of-hebron-full-lockdown-of-occupied-west-bank/4098296">원문 열기</a></p><p>이번 구간 후보 언급 2건 / 서로 다른 채널 1개. 최초·최종 게시 관측(UTC): 2026-10-23T22:57:41+00:00 / 2026-10-23T22:58:54+00:00. 기사 최초·수정·사건 시각은 별개입니다.</p><h3>트럼프 추가 이란 작전 경고·배럭 주튀르키예 대사 주말 공격 가능성 발언 후보</h3><p>상태: 보도·당사자 주장과 미확인 계획 구분</p><p>판정: 트럼프 경고 원보도 / 대사 발언 원문 미확인. 트럼프의 23일 유세 발언은 오전판 후속 재전달입니다. 쿠바 군함 파견 시사와 이란 실제 공격 개시는 다릅니다. 배럭 인터뷰가 주말 가능성을 말했다는 요약은 공격 시각·승인 확정 근거가 아닙니다. 외교관 표적 공격 정보 메모는 매체·정보당국 평가 후보로 실제 테러 발생과 구분합니다. 지도자 방문 축소·회담 취소·긴급 귀국도 별도 검색했으며 과거 9월 뉴욕 일정 축소를 이번 새 사건으로 재사용하지 않았습니다. 유가 상승과 안전자산 수요는 금리에 반대로 작용할 수 있어 일방 상승을 가정하지 않습니다.</p><p>원문: <a href="https://www.segye.com/newsView/20261024502698?OutUrl=naver">원문 열기</a></p><p>이번 구간 후보 언급 16건 / 서로 다른 채널 3개. 최초·최종 게시 관측(UTC): 2026-10-23T22:29:58+00:00 / 2026-10-24T07:10:36+00:00. 기사 최초·수정·사건 시각은 별개입니다.</p><h3>우크라이나, 스타링크·스타실드 속도 제한 해제 발표 보도…오전판 이후 후속</h3><p>상태: 당국 인용 보도 확인 / 독립 통신 실측 없음</p><p>판정: 우크라이나 당국 발표를 인용한 원기사 확인. 24일 보도는 제한 해제와 고속 이동 중 연결 회복을 전합니다. 23일 제한 지속 발언과 날짜가 다른 후속이며 앞선 혼선이 처음부터 없었던 것으로 소급하지 않습니다. 기술 실측·전선 전 구간의 안정성을 직접 검증하지 못했습니다. 군용 스타실드와 민간 스타링크 용어를 구분하고 위성통신 수요가 국내 관련주 매출로 연결되는지는 별도 계약 확인이 필요합니다.</p><p>원문: <a href="https://www.irishtimes.com/world/europe/2026/10/24/ukraine-says-restrictions-on-starlink-speed-now-lifted/">원문 열기</a></p><p>이번 구간 후보 언급 4건 / 서로 다른 채널 2개. 최초·최종 게시 관측(UTC): 2026-10-24T07:49:23+00:00 / 2026-10-24T08:20:17+00:00. 기사 최초·수정·사건 시각은 별개입니다.</p><h3>호르무즈 유조선 피격·사우디 미사일 요격·러시아 에너지시설 공격 주장</h3><p>상태: 당사자·속보 주장 미검증</p><p>판정: 미확인 또는 당사자 주장. UKMTO 인용 요약은 22일 17:15 UTC 오만 리마 북동쪽 7해리 유조선 1척 사건인 반면, 이란 측 유조선 2척 기뢰 충돌·대피 주장은 별개이며 같은 사건으로 합치지 않았습니다. 사우디 요격·경보 해제와 우크라이나 톨리아티·오룔 시설 타격도 원발표 확인이 남았습니다. 공격 수·피해 시설·생산 중단량을 임의로 확정하지 않습니다. 미국 증시 연결: 실제 운송·에너지 차질 확인 시 정유·에너지와 항공·화학의 비용 경로가 갈리고 우려 완화 시 반전될 수 있습니다.</p><p>이번 구간 후보 언급 20건 / 서로 다른 채널 2개. 최초·최종 게시 관측(UTC): 2026-10-23T22:29:58+00:00 / 2026-10-24T08:57:05+00:00. 기사 최초·수정·사건 시각은 별개입니다.</p><h2>기업·산업</h2><h3>포스코 노조, 11월 2일 19시 무기한·단계적 파업 예고 보도</h3><p>상태: 원기사 보도 확인 / 원기관 독립 대조 미완료</p><p>신규 보도는 23일 포항 막판 교섭 결렬 뒤 11월 2일 오후 7시 파업 예정이라는 내용입니다. 노조·회사 공식 발표를 직접 확보하지 못했으므로 파업 개시나 제철소 전체 가동 중단이 이미 발생했다고 쓰지 않습니다. 실제 참여 범위·안전 유지 인력·재교섭 결과가 철강 공급과 실적 영향의 확인 조건입니다. 공급 차질과 수요 위축이 상충할 수 있어 철강 가격 상승을 단정하지 않습니다.</p><p>원문: <a href="https://economist.co.kr/article/view/ecn202610240009">원문 열기</a></p><p>이번 구간 후보 언급 1건 / 서로 다른 채널 1개. 최초·최종 게시 관측(UTC): 2026-10-24T03:07:55+00:00 / 2026-10-24T03:07:55+00:00. 기사 최초·수정·사건 시각은 별개입니다.</p><h3>한국전력 사채 한도 초과 우려 19.2조원·전기료 25조원 선납 거절 보도</h3><p>상태: 원기사 보도 확인 / 원기관 독립 대조 미완료</p><p>국회예산정책처 분석을 인용한 기사는 2027년 말 특례 종료 뒤 2028년 발행 한도가 자본금·적립금의 2배로 돌아가며 전망 잔액과 약 19.2조원 차이가 날 수 있다고 설명합니다. 당장 오늘 19조원 채무불이행이 발생했다는 뜻이 아닙니다. 반도체 기업의 향후 5년 요금 선납 요청 거절 보도와 요금 인상 논의도 확정 인상 고시와 다릅니다. 전력망 투자 재원·연료비·법 개정 여부가 확인 조건이며 전력기기 수요 기대와 발주 지연 위험을 함께 봅니다.</p><p>원문: <a href="https://www.kyeonggi.com/article/20261024580051">원문 열기</a> | <a href="https://www.imaeil.com/page/view/2026102409413885877">원문 열기</a></p><p>이번 구간 후보 언급 4건 / 서로 다른 채널 1개. 최초·최종 게시 관측(UTC): 2026-10-24T00:59:29+00:00 / 2026-10-24T04:50:21+00:00. 기사 최초·수정·사건 시각은 별개입니다.</p><h2>국내 수급·정책</h2><h3>투자자예탁금 약 4개월간 51조원 감소 보도…총액을 순유출로 해석하지 않음</h3><p>상태: 원기사 보도 확인 / 원기관 독립 대조 미완료</p><p>신규 시장 수급 해설입니다. 예탁금은 주식 매수 결제·출금·신규 입금 등으로 바뀌므로 감소액 전체를 증시 밖 자금 이탈로 환산하지 않았습니다. 신용융자와 반대매매 부담 기사도 기준일·분모가 달라 하나의 수치로 합치지 않습니다. 금융투자협회 원시계열을 이번에 재조회하지 않아 누적 방향과 정확한 유출 경로는 기사 인용 범위입니다. 주말 보도이며 토요일 정규장 가격 반응을 만들지 않습니다.</p><p>원문: <a href="https://n.news.naver.com/article/011/0004674693">원문 열기</a> | <a href="https://n.news.naver.com/article/008/0005431014">원문 열기</a></p><p>이번 구간 후보 언급 2건 / 서로 다른 채널 1개. 최초·최종 게시 관측(UTC): 2026-10-23T22:55:40+00:00 / 2026-10-24T00:30:13+00:00. 기사 최초·수정·사건 시각은 별개입니다.</p><h3>금감원 해외주식 현금성 마케팅 금지 개선안, 의견 수렴 단계 보도</h3><p>상태: 원기사 보도 확인 / 원기관 독립 대조 미완료</p><p>23일 원기사의 오늘 재전달입니다. 규정 개정안 준비·업계 의견 수렴과 이미 시행된 법적 전면 금지를 구분했습니다. 자체 수수료·이자 감면 등은 기사에서 별도 취급합니다. 증권사 거래 유도 비용과 고객 유입에 영향을 줄 수 있으나 개정 문구·시행일 확정 전 실적 감소를 수치로 계산하지 않습니다.</p><p>원문: <a href="https://news.einfomax.co.kr/news/articleView.html?idxno=4440870">원문 열기</a></p><p>이번 구간 후보 언급 1건 / 서로 다른 채널 1개. 최초·최종 게시 관측(UTC): 2026-10-24T02:45:40+00:00 / 2026-10-24T02:45:40+00:00. 기사 최초·수정·사건 시각은 별개입니다.</p><h2>정책·AI</h2><h3>영국 AI 생물안전 연구소, 정부 1억파운드·기업 최대 2억파운드 지원</h3><p>상태: 영국 정부 공식 원문 확인</p><p>영국 정부 24일 발표를 확인했습니다. 정부 예산과 OpenAI·Anthropic의 최대 모델 크레디트 약속은 현금 집행액 하나로 더하지 않습니다. 더 넓은 정부 AI·안보 패키지와 연구소 예산도 중복 합산하지 않습니다. AI 위험 탐지·백신/대응 연구 기반의 계획으로 국내 바이오·보안 기업의 수주가 아닙니다. 실제 조달·프로젝트 참여·집행 일정이 영향 확인 조건입니다.</p><p>원문: <a href="https://www.gov.uk/government/news/introducing-the-ai-biosecurity-lab">원문 열기</a> | <a href="https://www.gov.uk/government/news/chancellor-unveils-britains-ambitious-plan-for-ai">원문 열기</a></p><p>이번 구간 후보 언급 2건 / 서로 다른 채널 2개. 최초·최종 게시 관측(UTC): 2026-10-24T02:04:37+00:00 / 2026-10-24T05:38:17+00:00. 기사 최초·수정·사건 시각은 별개입니다.</p><h3>중국 AI 고용 지침, 실업 완충기간은 장려 표현…일률 강제와 구분</h3><p>상태: 중국 정부·부처 원문 확인</p><p>국무원 원문은 노동집약 업종의 도입 범위·강도·속도를 신중히 조절하고 기업의 실업 완충기간 탐색을 장려한다고 명시합니다. 국내 기사 중 일률적 강제·의무화로 확대된 표현은 원문과 달라 채택하지 않았습니다. 성문일 10월 16일, 정부 영문 소개 23일, 부처 재게시 24일을 구분했습니다. AI 도입 전면 중단이 아니라 고용 보호·재교육 조정이며 실제 기업별 비용과 생산성 영향은 후속 시행을 봐야 합니다.</p><p>원문: <a href="https://www.dt.co.kr/article/12090947?ref=naver">원문 열기</a> | <a href="https://english.www.gov.cn/policies/latestreleases/202610/23/content_WS6adb4e53c6d00ca5f9a0deb7.html">원문 열기</a> | <a href="https://www.mee.gov.cn/zcwj/gwywj/202610/t20261024_1184583.shtml">원문 열기</a></p><p>이번 구간 후보 언급 1건 / 서로 다른 채널 1개. 최초·최종 게시 관측(UTC): 2026-10-24T05:03:50+00:00 / 2026-10-24T05:03:50+00:00. 기사 최초·수정·사건 시각은 별개입니다.</p><h2>기업·산업</h2><h3>LG이노텍, 베를린서 엔비디아 HSB 센싱 공개…22일 발표 재안내</h3><p>상태: LG이노텍 공식 발표와 원기사 확인</p><p>회사 발표는 20일 GTC 베를린에서 300만화소 카메라 모듈·MVS 등 센싱 솔루션 공개를 설명합니다. 오늘 기사에 재전달된 기술 협력으로 신규 수주 금액은 아닙니다. CPU를 거치지 않는 GPU 센서 연결 등 기술 설명과 대량 양산 매출은 구분합니다. 2027년 CES·GTC 전시는 계획 범위이며 정확한 기업 발표 시각은 아직 별도 확인 사항입니다. 고객 채택·실제 공급 계약과 경쟁 제품이 수익 영향의 조건입니다.</p><p>원문: <a href="https://n.news.naver.com/mnews/article/648/0000051904?rc=N&amp;ntype=RANKING&amp;sid=101">원문 열기</a> | <a href="https://www.lginnotek.com/news/pressView.do?idx=6605&amp;locale=en&amp;rowSize=15">원문 열기</a></p><p>이번 구간 후보 언급 1건 / 서로 다른 채널 1개. 최초·최종 게시 관측(UTC): 2026-10-24T06:14:34+00:00 / 2026-10-24T06:14:34+00:00. 기사 최초·수정·사건 시각은 별개입니다.</p><h2>AI·데이터센터</h2><h3>TikTok 미국 법인, 2030년대 초 4GW 컴퓨팅 확보 추진 보도 후속</h3><p>상태: 원기사 보도 확인 / 원기관 독립 대조 미완료</p><p>CNBC 원문은 익명 소식통의 4GW 목표와 회사의 Oracle이 주된 클라우드 제공자라는 설명을 구분합니다. 다년간의 탐색·협의이며 확정 임대·구매 계약이나 오늘 추가 지출액이 아닙니다. BofA 2028년 2.1조달러 데이터센터 지출 전망·연료전지 수요 기사는 원문 접근 실패로 추정 후보에 남겼습니다. 전력망·냉각·연료전지 기회는 계약·가동·자금조달 확인이 필요하며 대규모 투자 회수 부담도 반대 경로입니다.</p><p>원문: <a href="https://www.cnbc.com/2026/10/23/tiktok-us-compute-capacity.html?utm_source=chatgpt.com">원문 열기</a></p><p>이번 구간 후보 언급 2건 / 서로 다른 채널 1개. 최초·최종 게시 관측(UTC): 2026-10-23T23:49:30+00:00 / 2026-10-23T23:58:35+00:00. 기사 최초·수정·사건 시각은 별개입니다.</p><h3>중국 AI 연산 2027년 약 두 배 전망, 미국 설계·해외 클라우드 의존 가설</h3><p>상태: 원기사 보도 확인 / 원기관 독립 대조 미완료</p><p>대만 원기사는 IFP 보고서의 H100 환산 460만→880만 추정을 인용했습니다. 실제 GPU 출하 확정량·중국 국산칩만의 성과가 아닙니다. 출처 모델에 합법 수입·비공식 조달·해외 클라우드가 함께 포함돼 가정 변화에 민감합니다. 원 IFP 보고서 직접 대조가 남아 전망으로만 표시합니다. GPU 임대료 지수 이미지·AI CDS 최고치 요약도 원계열 미확보라 수치를 확정하지 않습니다.</p><p>원문: <a href="https://www.ctee.com.tw/news/20261024700325-430804">원문 열기</a></p><p>이번 구간 후보 언급 2건 / 서로 다른 채널 2개. 최초·최종 게시 관측(UTC): 2026-10-24T05:15:50+00:00 / 2026-10-24T05:37:26+00:00. 기사 최초·수정·사건 시각은 별개입니다.</p><h2>보안·위험</h2><h3>PHP 취약점 악용 준비 정황·Brotli RCE 보고 후보, 실제 침해와 구분</h3><p>상태: 원기사 보도 확인 / 원기관 독립 대조 미완료</p><p>문화일보는 싱가포르 보안기업의 라자루스 준비 정황 주장을 전했습니다. 악성 공격 준비·취약점·이미 발생한 침해는 단계가 다릅니다. PHP 원 보안 공지와 OpenAI의 Brotli 취약점 원발표 전체를 이번에 대조하지 못해 CVE·피해 수를 임의로 만들지 않았습니다. 항공 IT업체 유출 후속도 노출 항목·고객 규모 확인이 남았습니다. 패치·침입 탐지·규제 대응 수요가 보안 업체 매출로 이어지는지는 실제 계약 확인이 필요합니다.</p><p>원문: <a href="https://www.munhwa.com/article/11625906?ref=naver">원문 열기</a> | <a href="https://www.ngonews.kr/news/articleView.html?idxno=241351">원문 열기</a></p><p>이번 구간 후보 언급 6건 / 서로 다른 채널 3개. 최초·최종 게시 관측(UTC): 2026-10-23T22:37:28+00:00 / 2026-10-24T09:45:53+00:00. 기사 최초·수정·사건 시각은 별개입니다.</p><h2>기업·산업</h2><h3>밀양 4개 기업 1,385억원 투자협약·중앙일보 인수 우협 후속</h3><p>상태: 원기사 보도 확인 / 원기관 독립 대조 미완료</p><p>밀양 기사상 투자협약 합계는 600+650+100+35억원이며 확정 납품 수주가 아닙니다. 허가·투자 집행·고용 달성을 별도 확인해야 합니다. 중앙일보 매각은 다우키움·CJ 컨소시엄과 신세계 참여 보도로, 약 5,000억원 거론액은 확정 인수가가 아닙니다. 감자·유증 구조, 주총·사채권자 동의 등 조건이 남습니다. 상장 관련사의 출자 규모·연결 효과가 확인되기 전 실적에 임의 반영하지 않습니다.</p><p>원문: <a href="https://www.pointe.co.kr/news/articleView.html?idxno=86563">원문 열기</a> | <a href="https://n.news.naver.com/article/018/0006395202">원문 열기</a></p><p>이번 구간 후보 언급 2건 / 서로 다른 채널 1개. 최초·최종 게시 관측(UTC): 2026-10-24T00:40:44+00:00 / 2026-10-24T01:33:02+00:00. 기사 최초·수정·사건 시각은 별개입니다.</p><h2>공시·기업 행동</h2><h3>한솔아이원스 유증에 한솔테크닉스 참여·엘앤씨바이오 26일 권리락</h3><p>상태: DART 본문 확인</p><p>23일 DART 원공시는 한솔테크닉스의 예정 출자금 242.73억원·유증 전체 600억원·주당 예정가 9,120원을 기재하며 배정·확정가에 따라 바뀔 수 있습니다. 2027년 1월 29일 납입은 계획일로 완료가 아닙니다. 엘앤씨바이오 무상증자 권리락은 10월 26일, 기준가 30,150원으로 원문 확인했습니다. 권리락 기준가격과 현재 시장가격을 혼합하지 않고 자본조달·희석·수급 효과를 구분합니다.</p><p>원문: <a href="https://dart.fss.or.kr/dsaf001/main.do?rcpNo=20261023000176">원문 열기</a> | <a href="https://dart.fss.or.kr/dsaf001/main.do?rcpNo=20261023900853">원문 열기</a></p><p>이번 구간 후보 언급 1건 / 서로 다른 채널 1개. 최초·최종 게시 관측(UTC): 2026-10-24T02:40:34+00:00 / 2026-10-24T02:40:34+00:00. 기사 최초·수정·사건 시각은 별개입니다.</p><h2>바이오·임상</h2><h3>GSK Mo-Rez 난소암 1b상 PFS 11.1개월·ORR 62% 발표</h3><p>상태: 회사 공식 원문 확인</p><p>회사 원문은 BEHOLD-1 초기 임상에서 확인 ORR 62%, 반응 지속기간 12.2개월, PFS 11.1개월을 제시합니다. 3상 확증이나 신약 허가가 아닙니다. 지표별 기간과 환자군이 달라 다른 ADC 임상과 단순 우열 비교하지 않습니다. 국내 바이오 기업 노출·권리 관계는 별도 확인되지 않았습니다. 추가 확증·안전성·허가와 판권을 확인해야 합니다.</p><p>원문: <a href="https://www.gsk.com/en-gb/media/press-releases/gsk-presents-positive-data-for-mo-rez-in-platinum-resistant-ovarian-cancer/">원문 열기</a></p><p>이번 구간 후보 언급 2건 / 서로 다른 채널 1개. 최초·최종 게시 관측(UTC): 2026-10-24T00:25:36+00:00 / 2026-10-24T00:25:45+00:00. 기사 최초·수정·사건 시각은 별개입니다.</p><h2>목표주가 변경</h2><h3>목표주가 변경 한 묶음: ASTS 의견 상향 후보·국내 실적 전망 구분</h3><p>상태: 원보고서 미검증 후보와 기사 전망 구분</p><p>AST스페이스모바일은 스코샤뱅크 Sector Perform→Sector Outperform, 목표 55.70달러라는 요약 후보입니다. 브로커 원보고서·이전 목표가를 확보하지 못해 상향액이나 확정 변경으로 계산하지 않았습니다. 씨에스윈드 하나증권·파라다이스 실적 전망 기사에는 확정 발표와 추정의 구분을 유지하며 확인 없는 새 목표주가를 만들지 않습니다. 오전의 삼성E&amp;A 목표가 변경은 이미 전달한 배경입니다. 개별 종목 카톡 대신 이 섹션에 묶습니다.</p><p>원문: <a href="https://www.pinpointnews.co.kr/news/articleView.html?idxno=498114">원문 열기</a> | <a href="https://www.pinpointnews.co.kr/news/articleView.html?idxno=498133">원문 열기</a></p><p>이번 구간 후보 언급 3건 / 서로 다른 채널 2개. 최초·최종 게시 관측(UTC): 2026-10-23T22:38:13+00:00 / 2026-10-24T07:27:52+00:00. 기사 최초·수정·사건 시각은 별개입니다.</p><h2>수주공시·계약 검토</h2><h3>수주공시 재안내·언론 인용 계약: 삼성전기 3,605억원·LS일렉 1,689억원</h3><p>상태: 원기사 확인 / 원공시 추가 대조 필요</p><p>오늘 기사에 포함된 19일 계약 보도입니다. 삼성전기 패키지기판 3,605억원은 2027년 납품, LS일렉 1,689억원은 2027년 확정 물량이고 2028년은 추가 협의라고 기사에 적혔습니다. 계약 원공시·매출 대비 비중·정확한 공시 시각을 이번에 대조하지 못해 확인된 새 수주공시로 승격하지 않습니다. 23일 기가비스·코오롱글로벌 공급계약 목록은 이전판에 실린 계약과 중복 가능해 신규 합산하지 않고 원공시 감사 큐를 유지합니다. 주가 반영 여부는 판단 불가입니다.</p><p>원문: <a href="https://n.news.naver.com/mnews/article/648/0000051904?rc=N&amp;ntype=RANKING&amp;sid=101">원문 열기</a></p><p>이번 구간 후보 언급 1건 / 서로 다른 채널 1개. 최초·최종 게시 관측(UTC): 2026-10-24T02:40:34+00:00 / 2026-10-24T02:40:34+00:00. 기사 최초·수정·사건 시각은 별개입니다.</p><h2>미확인·추가 검토</h2><h3>추가 기업·정책 확인 큐: 원전 장기 전망·미국 기업 계약과 임상</h3><p>상태: 계획·언론 인용·후보를 보존 / 확정 효과로 사용 금지</p><p>IAEA 원전 수요 전망은 확정 발주가 아닙니다. 템퍼스·BMS 2031년 데이터 라이선스, IREN·엔비디아 플랫폼, 메타 Sundial 인수, SpaceX 기지국 8만개 협의·Instacart 매각 검토는 원계약 대조가 남았습니다. AbbVie 승인, IONS·로슈·젠맙 임상, 리콜 및 AXP·BAH 콜 요약도 각 원발표를 추가 확인해야 합니다. 요르단 공격·에볼라·태풍·허리케인은 피해·공식 경보 원천을 우선하며 속보끼리 피해 수를 합치지 않았습니다. 현대차 한정판 200대·새만금 지원 논의, 이마트 유통 확대·에코프로 전략은 기업 전체 확정 실적과 다릅니다.</p><p>원문: <a href="https://n.news.naver.com/article/215/0001270315">원문 열기</a> | <a href="https://magazine.hankyung.com/business/article/202610242420b">원문 열기</a> | <a href="https://www.theguru.co.kr/news/article.html?no=108736">원문 열기</a> | http://www.domin.co.kr/news/articleView.html?idxno=1572959 | <a href="https://www.meconomynews.com/news/articleView.html?idxno=202883">원문 열기</a> | http://www.breaknews.com/1245435 | <a href="https://www.yonhapnewstv.co.kr:443/news/MYH20261024162114ruc">원문 열기</a> | <a href="https://www.ytn.co.kr/_ln/0108_202610241622098228">원문 열기</a></p><p>이번 구간 후보 언급 26건 / 서로 다른 채널 3개. 최초·최종 게시 관측(UTC): 2026-10-23T22:37:28+00:00 / 2026-10-24T08:45:58+00:00. 기사 최초·수정·사건 시각은 별개입니다.</p><h2>일정 정정과 다음 확인</h2><p>다음 주 일정에서 CPI/PCE와 영란은행 날짜를 바로잡았습니다. 날짜순 일정은 별도 링크로 제공하며 IR·재공시는 거시 일정과 분리했습니다. 뉴스 빈도가 낮아도 파업·권리락·주금 납입·정책 발효는 별도 일정에 기록했습니다.</p><h2>검증 한계</h2><p>발행·수정·사건·게시·수집 시각은 원자료에 보존하고 시간대 미확인을 임의 환산하지 않았습니다. 원기사를 읽었다는 사실과 그 주장 전체의 독립 검증은 다릅니다. 직접 접근 실패·빈 본문·상반된 주장·미검토 후보는 장부에 남깁니다. 금융 영향은 조건부 경로이며 매매 신호나 확정 예측이 아닙니다. 기존 미발송 11개 판은 별도 미해결이고 분석 완료 cutoff를 임의로 올리지 않습니다.</p></article><h2>전체 본문 PNG</h2><img src="news_01.png" alt="뉴스 본문 1" loading="lazy"><img src="news_02.png" alt="뉴스 본문 2" loading="lazy"><img src="news_03.png" alt="뉴스 본문 3" loading="lazy"><img src="news_04.png" alt="뉴스 본문 4" loading="lazy"><img src="news_05.png" alt="뉴스 본문 5" loading="lazy"><img src="news_06.png" alt="뉴스 본문 6" loading="lazy"><img src="news_07.png" alt="뉴스 본문 7" loading="lazy"><img src="news_08.png" alt="뉴스 본문 8" loading="lazy"><img src="news_09.png" alt="뉴스 본문 9" loading="lazy"><img src="news_10.png" alt="뉴스 본문 10" loading="lazy"><img src="news_11.png" alt="뉴스 본문 11" loading="lazy"></main></html>
